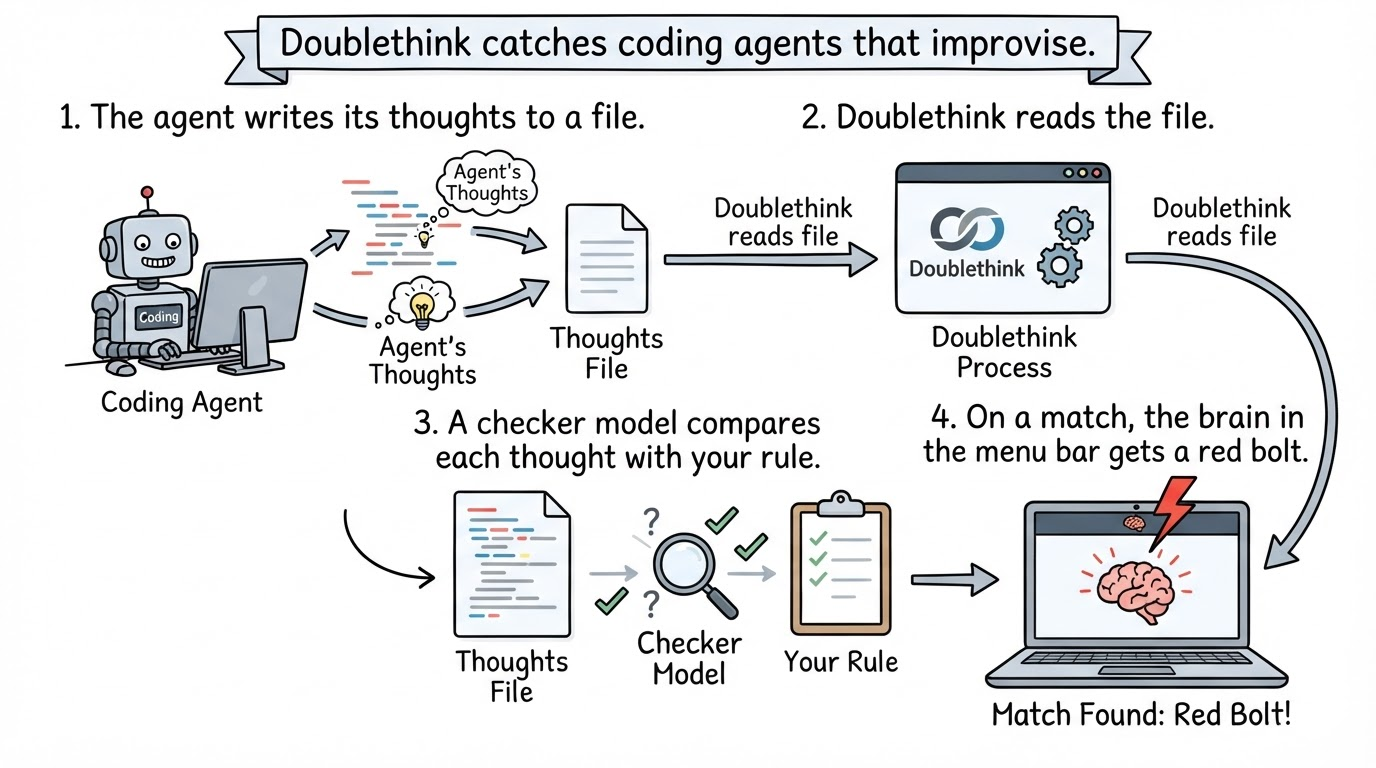
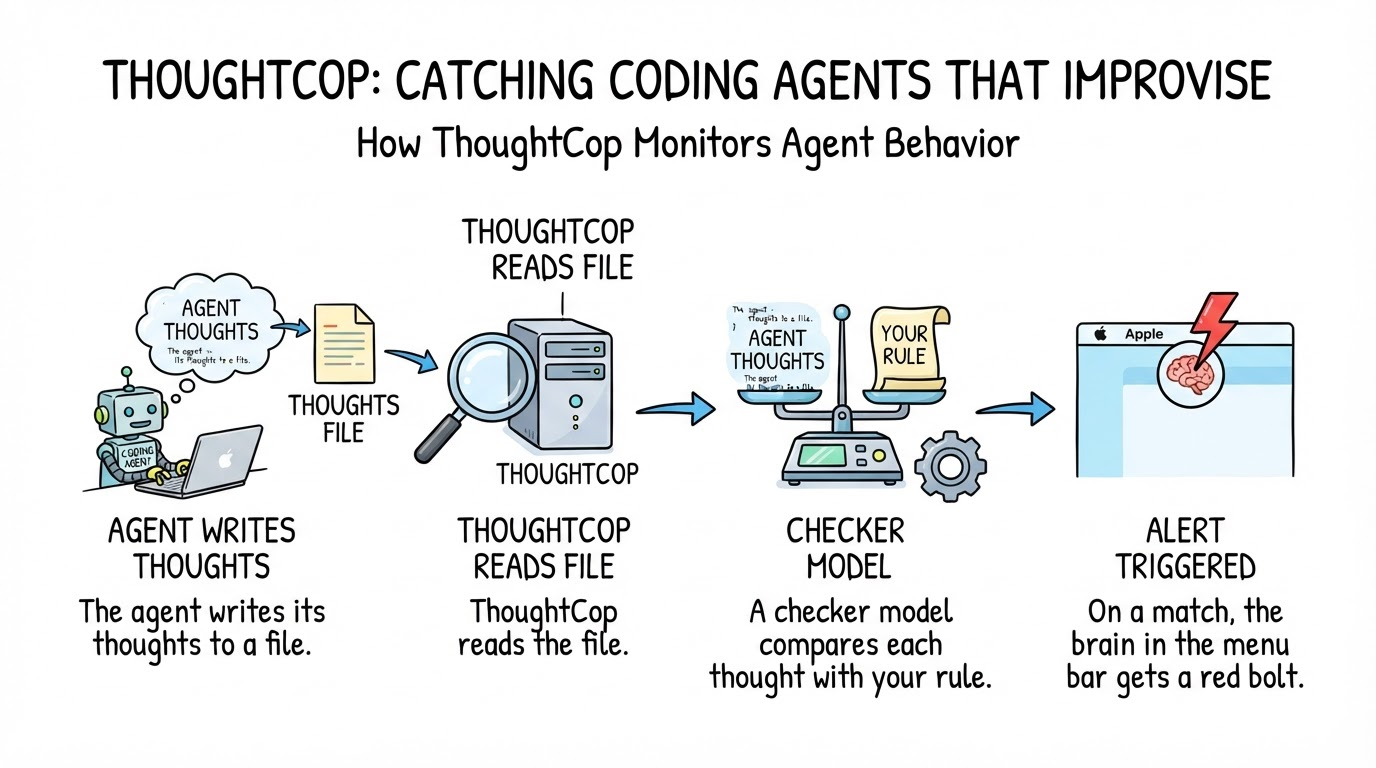
docs(blog): ThoughtCop diagram and Rules screenshot; end-to-end text fixes

Changed region(s): [[0.0625, 0.0, 1.0, 0.9688], [0.0625, 0.7812, 0.25, 0.875]]

diff --git a/docs/blog/thoughtcop-catches-agents-improvising/thoughtcop-catches-agents-improvising.md b/docs/blog/thoughtcop-catches-agents-improvising/thoughtcop-catches-agents-improvising.md
@@ -61,7 +61,7 @@ Quiet, it's just a brain. The moment a rule matches it flashes red for three sec
 
 ![The flash: brain, bolt and count in red](images/menubar-flash.png)
 
-That is the entire UI most of the time. A brain, a bolt when something is unreviewed, and a number. There is also a one-line always-on-top ticker that scrolls the live reasoning; I keep it hidden and let the shield do the talking.
+That is the entire UI most of the time. A brain, a bolt when something is unreviewed, and a number. There is also a one-line always-on-top ticker that scrolls the live reasoning; I keep it hidden and let the brain do the talking.
 
 Hover the brain and you get the last catch without opening anything.
 
@@ -133,7 +133,7 @@ Without it, ThoughtCop still checks every reply, but the "worth flagging, but le
 - **It only sees what the provider writes.** Claude's stored "thinking" is a summary, not the raw chain of thought. A long reasoning pass can arrive as two sentences. Still, two sentences was enough here.
 - **The checker is a model too.** It will flag things you don't care about and it will miss things. In this session, rule one fired every time the agent reported being blocked, which is what I asked for, but you may want a narrower rule.
 - **Thoughts leave your machine.** Readable reasoning and replies are sent to the checker together with your latest request to the agent. `--local-only` turns external checking off and you get the live reasoning view without any alarms. Read `PRIVACY.md` before deciding.
-- **It is a mirror, not a fence.** ThoughtCop tells you what happened. It does not stop the agent. If you want enforcement, that is a hook, like I wrote about in a previous post.
+- **It is a mirror, not a fence.** ThoughtCop tells you what happened. It does not stop the agent. If you want enforcement, that is a hook, like I wrote about in *Claude Forgets My Rules After an Hour. A Hook Doesn't.* (airabbit.blog).
 - **macOS, Claude Code and Codex only.** It reads their local session files. Nothing is ever written under `~/.claude/`.
 
 ## The Bottom Line
@@ -142,7 +142,7 @@ Agents don't go rogue. They go helpful. Haiku wanted to finish the job, noticed 
 
 The reasoning is already on your disk. You might as well read it.
 
-Hooks, not vibes.
+Read the thoughts, not just the answer.
 
 ## Reference — everything to copy
 
